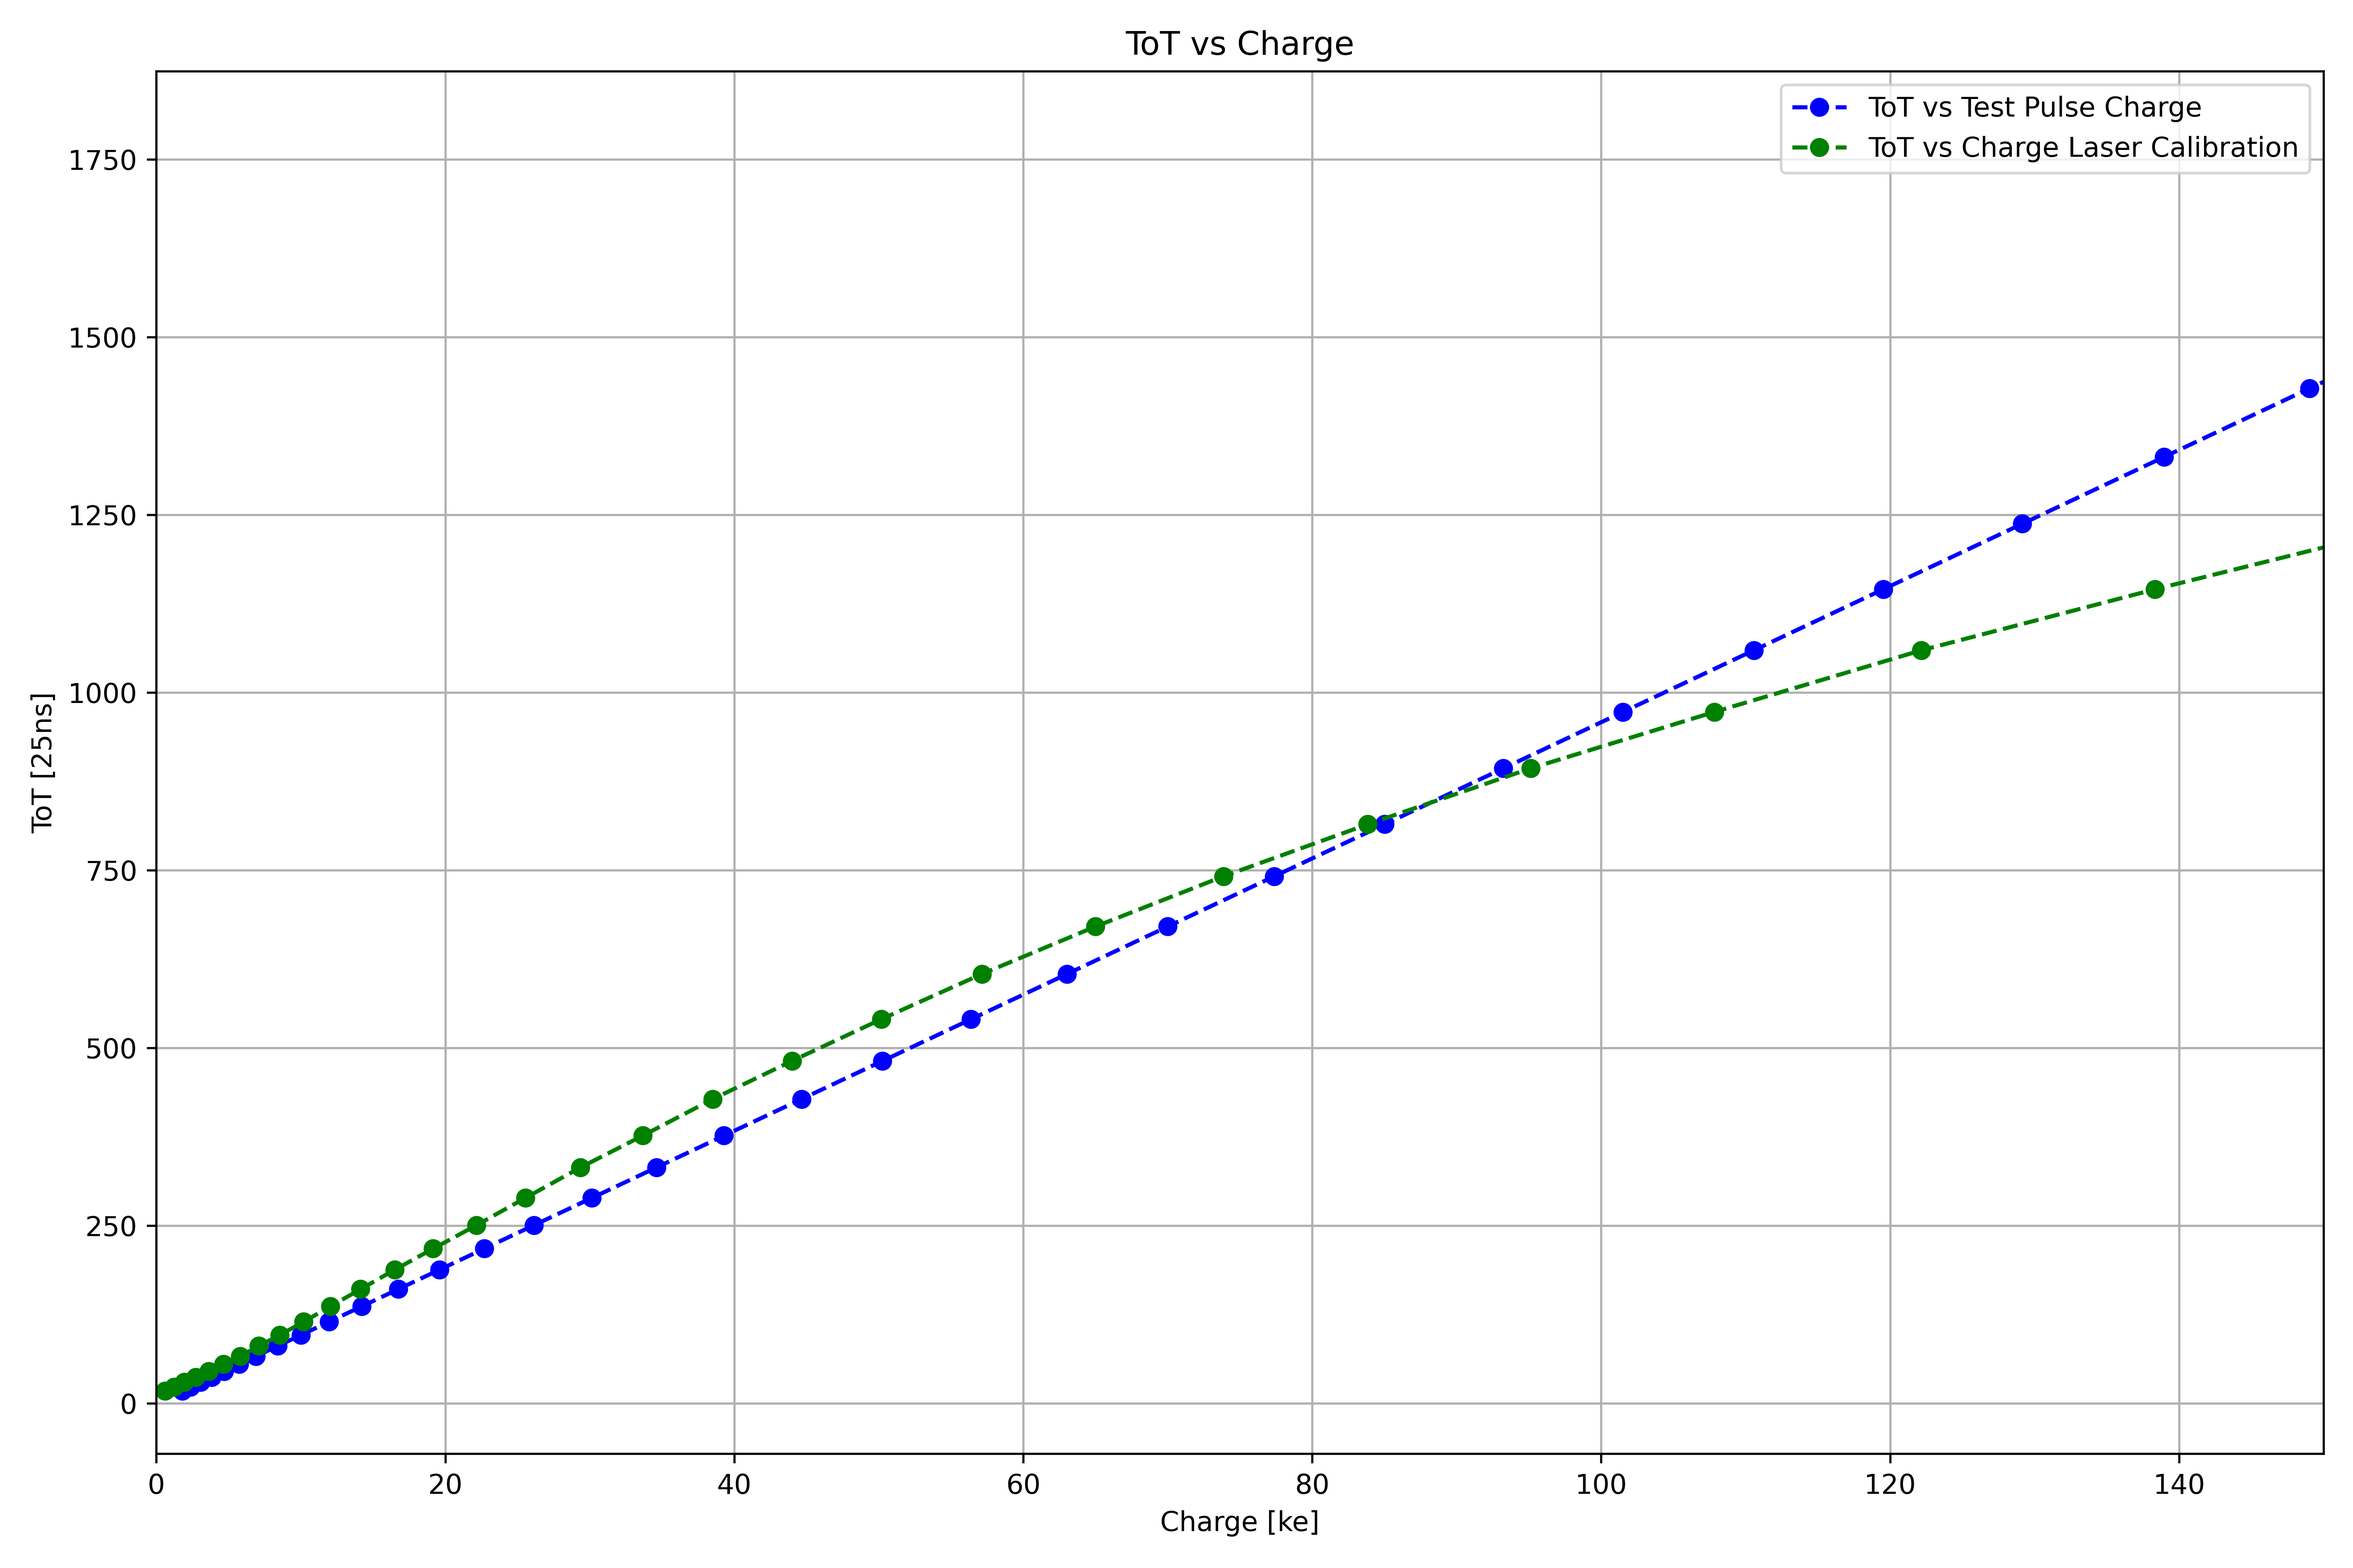
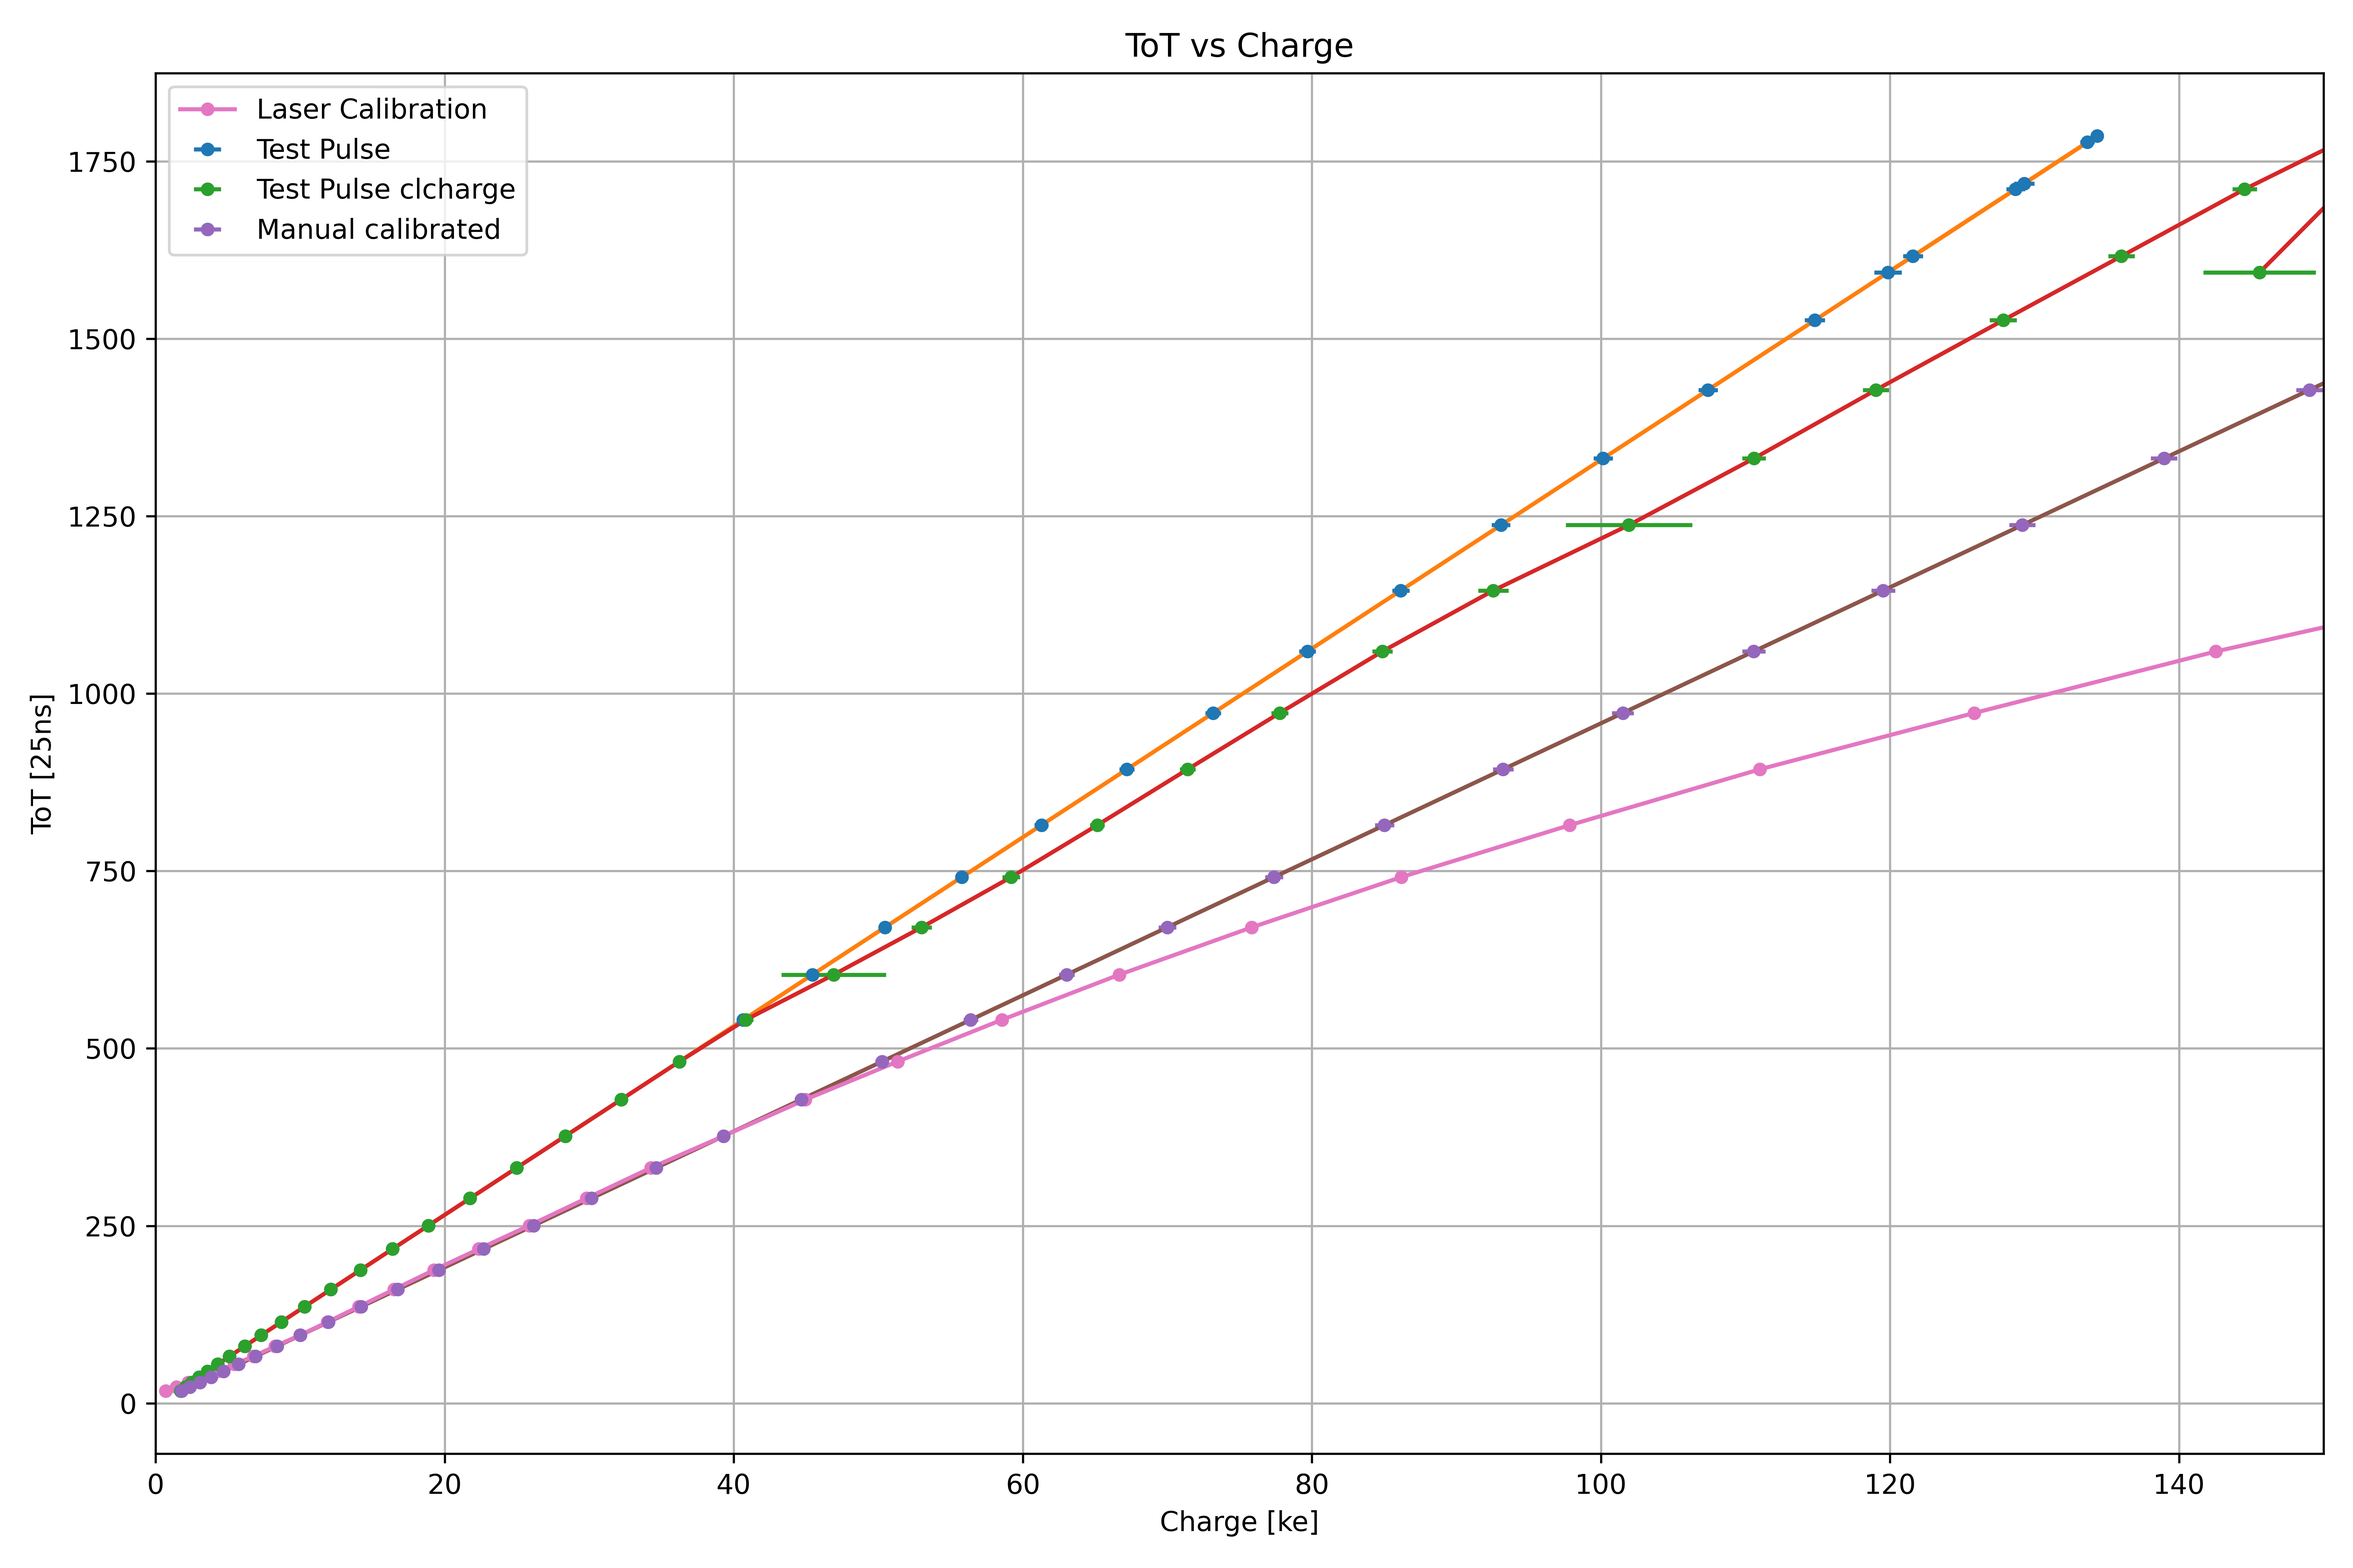
Refactor code structure for improved readability and maintainability

diff --git a/timepix4/laser_measurement/processor.py b/timepix4/laser_measurement/processor.py
@@ -33,8 +33,15 @@ class Processor:
             columns=[
                 "AttenuationVoltage",
                 "Mean Tot",
+                "Std Tot",
+                "Mean clTot",
+                "Std clTot",
                 "Mean Charge Raw",
-                "Mean Charge",
+                "Std Charge Raw",
+                "Mean clCharge",
+                "Std clCharge",
+                "Mean Charge Calibrated",
+                "Std Charge Calibrated",
             ],
         )
         df_results = df_results.sort_values("AttenuationVoltage")
@@ -79,19 +86,37 @@ class Processor:
         self._ComputeTargetPixelStats()
 
     def _ComputeTargetPixelStats(self) -> None:
+        self.dfTargetPixel["cltot"] = self.dfTargetPixel["cltot"].astype(float)
         self.dfTargetPixel["tot"] = self.dfTargetPixel["tot"].astype(float)
-        self.dfTargetPixel["raw charge"] = self.dfTargetPixel["raw charge"].astype(float)
+        self.dfTargetPixel["raw charge"] = self.dfTargetPixel["raw charge"].astype(
+            float
+        )
         self.dfTargetPixel["clcharge"] = self.dfTargetPixel["clcharge"].astype(float)
+        self.dfTargetPixel["charge"] = self.dfTargetPixel["charge"].astype(float)
 
         mean_tot = self.dfTargetPixel["tot"].mean()
-        mean_charge_raw = self.dfTargetPixel["charge"].mean()
+        std_tot = self.dfTargetPixel["tot"].std()
+        mean_cltot = self.dfTargetPixel["cltot"].mean()
+        std_cltot = self.dfTargetPixel["cltot"].std()
+        mean_charge_raw = self.dfTargetPixel["raw charge"].mean() / 1000
+        std_charge_raw = self.dfTargetPixel["raw charge"].std() / 1000
         mean_charge = self.dfTargetPixel["clcharge"].mean() / 1000
+        std_charge = self.dfTargetPixel["clcharge"].std() / 1000
+        mean_charge_calibrated = self.dfTargetPixel["charge"].mean()
+        std_charge_calibrated = self.dfTargetPixel["charge"].std()
         self.AttenuationVoltageResults.append(
             (
                 float(self.AttenuationVoltage),
                 float(mean_tot),
+                float(std_tot),
+                float(mean_cltot),
+                float(std_cltot),
                 float(mean_charge_raw),
+                float(std_charge_raw),
                 float(mean_charge),
+                float(std_charge),
+                float(mean_charge_calibrated),
+                float(std_charge_calibrated),
             )
         )
 
@@ -120,15 +145,15 @@ class Processor:
 
     def FilterAndUnwrap(self, df: pd.DataFrame) -> pd.DataFrame:
         df_filtered = df[
-            (df["row"].apply(lambda x: x[0]) == self.ROW) &
-            (df["col"].apply(lambda x: x[0]) == self.COL)
+            (df["row"].apply(lambda x: x[0]) == self.ROW)
+            & (df["col"].apply(lambda x: x[0]) == self.COL)
             & (df["nhits"] == 1)
         ]
         return df_filtered
 
     def _FilterAndUnwrap(self, df: pd.DataFrame) -> pd.DataFrame:
 
-        for c in ["col", "row", "tot", "nhits", "raw charge", "clcharge"]:
+        for c in ["col", "row", "tot", "cltot", "nhits", "raw charge", "clcharge"]:
             df[c] = df[c].apply(self._ParseList)
         df_charge = df.copy()
 
@@ -141,7 +166,7 @@ class Processor:
             axis=1,
         )
         df_charge = df_charge[
-            ["row", "col", "tot", "nhits", "raw charge", "clcharge", "charge"]
+            ["row", "col", "tot", "cltot", "nhits", "raw charge", "clcharge", "charge"]
         ].reset_index(drop=True)
         df["combined"] = df_charge.apply(
             lambda r: list(
@@ -149,6 +174,7 @@ class Processor:
                     r["row"],
                     r["col"],
                     r["tot"],
+                    r["cltot"],
                     r["nhits"],
                     r["raw charge"],
                     r["clcharge"],
@@ -160,9 +186,10 @@ class Processor:
         df_exploded = df.explode("combined")
 
         df_exploded[
-            ["row", "col", "tot", "nhits", "raw charge", "clcharge", "charge"]
+            ["row", "col", "tot", "cltot", "nhits", "raw charge", "clcharge", "charge"]
         ] = pd.DataFrame(df_exploded["combined"].tolist(), index=df_exploded.index)
         df_exploded = df_exploded.drop(columns=["combined"])
+        # df_exploded = df_exploded[(df_exploded["nhits"] == 1)]
         return df_exploded
 
     def _LoadCorrectionFactors(self) -> dict[tuple[int, int], float]:

diff --git a/timepix4/laser_measurement/plotter.py b/timepix4/laser_measurement/plotter.py
@@ -5,33 +5,85 @@ import matplotlib.pyplot as plt
 
 def ToTChargePlotter(FilePath: str) -> None:
     df = pd.read_csv(FilePath)
+    df_copy = df.copy()
+    # df = df[(df["Mean Charge Raw"] < 100)]
     lookuptable = pd.read_csv("lookup_table.csv")
     lookuptable = lookuptable.sort_values("voltage", ascending=True)
     lookuptable["Charge"] = lookuptable["relative_factor"].apply(lambda x: x * 16.5)
     fig, ax = plt.subplots(figsize=(12, 8))
+    plt.errorbar(
+        df["Mean Charge Raw"],
+        df["Mean Tot"],
+        xerr=df["Std Charge Raw"],
+        fmt="o",
+        markersize=4,
+        linestyle="none",
+        # color="blue",
+        label="Test Pulse",
+    )
     plt.plot(
         df["Mean Charge Raw"],
         df["Mean Tot"],
-        marker="o",
-        linestyle="--",
-        color="b",
-        label="ToT vs Test Pulse Charge",
+        linestyle="-",
+        # color="red",
     )
-    # plt.plot(
-    #     df["Mean Charge"],
+    plt.errorbar(
+        df["Mean clCharge"],
+        df["Mean Tot"],
+        xerr=df["Std clCharge"],
+        fmt="o",
+        markersize=4,
+        linestyle="none",
+        # color="cyan",
+        label="Test Pulse clcharge",
+    )
+    plt.plot(
+        df["Mean clCharge"],
+        df["Mean Tot"],
+        linestyle="-",
+        # color="green",
+    )
+    plt.errorbar(
+        df["Mean Charge Calibrated"],
+        df["Mean Tot"],
+        xerr=df["Std Charge Calibrated"],
+        fmt="o",
+        markersize=4,
+        linestyle="none",
+        # color="yellow",
+        label="Manual calibrated",
+    )
+    plt.plot(
+        df["Mean Charge Calibrated"],
+        df["Mean Tot"],
+        linestyle="-",
+        # color="pink",
+    )
+    # plt.errorbar(
+    #     df["Mean clCharge"],
     #     df["Mean Tot"],
-    #     marker="o",
-    #     linestyle="--",
-    #     color="r",
-    #     label="ToT vs Test Pulse clCharge",
+    #     xerr=df["Std clCharge"],
+    #     fmt="o",
+    #     markersize=4,
+    #     linestyle="none",
+    #     color="green",
+    #     label="Test Pulse clcharge",
     # )
+    # plt.plot(
+    #     df["Mean clCharge"],
+    #     df["Mean Tot"],
+    #     linestyle="-",
+    #     color="orange",
+    # )
+
     plt.plot(
         lookuptable["Charge"],
-        df["Mean Tot"],
+        df_copy["Mean Tot"],
         marker="o",
-        linestyle="--",
-        color="g",
-        label="ToT vs Charge Laser Calibration",
+        markersize=4,
+        linestyle="-",
+        # color="black",
+        label="Laser Calibration",
     )
     # Set labels and title
     ax.set_xlabel("Charge [ke]")

diff --git a/LaserPower.py b/LaserPower.py
@@ -5,7 +5,7 @@ def main():
     filepath = "Data/Laser Power/Power.csv"
     # PowerVoltagePlot(filepath)
     # filepath = "Data/Laser Power/laser_power_933nm.csv"
-    # CreateLookupTable(filepath, 3.725)
-    PlotRelativePower("lookup_table.csv")
+    CreateLookupTable(filepath, 3.725)
+    # PlotRelativePower("lookup_table.csv")
 if __name__ == "__main__":
     main()
